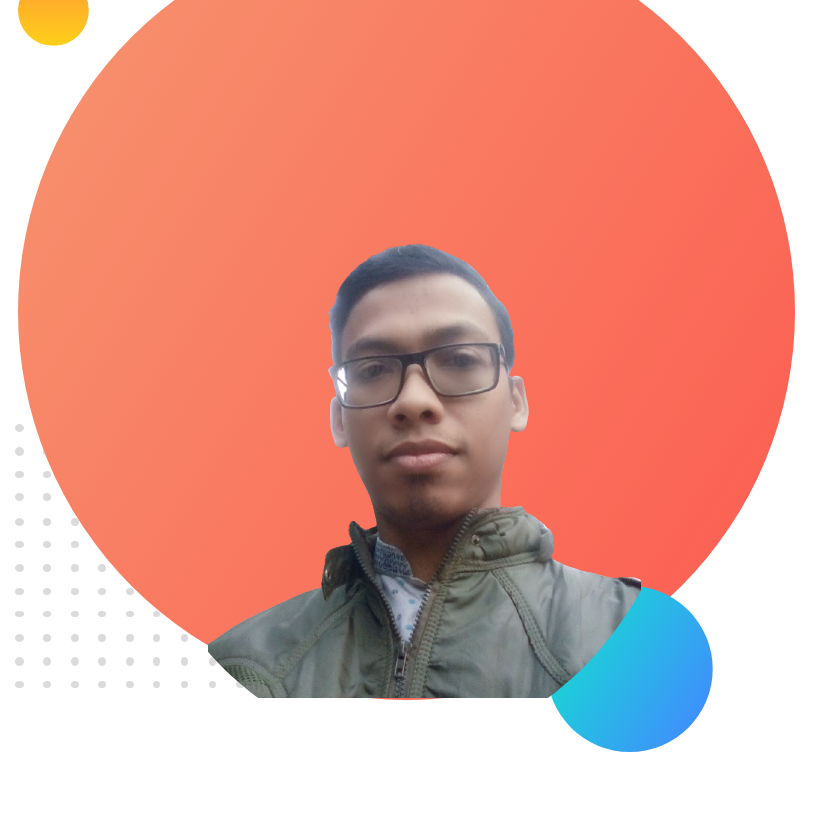
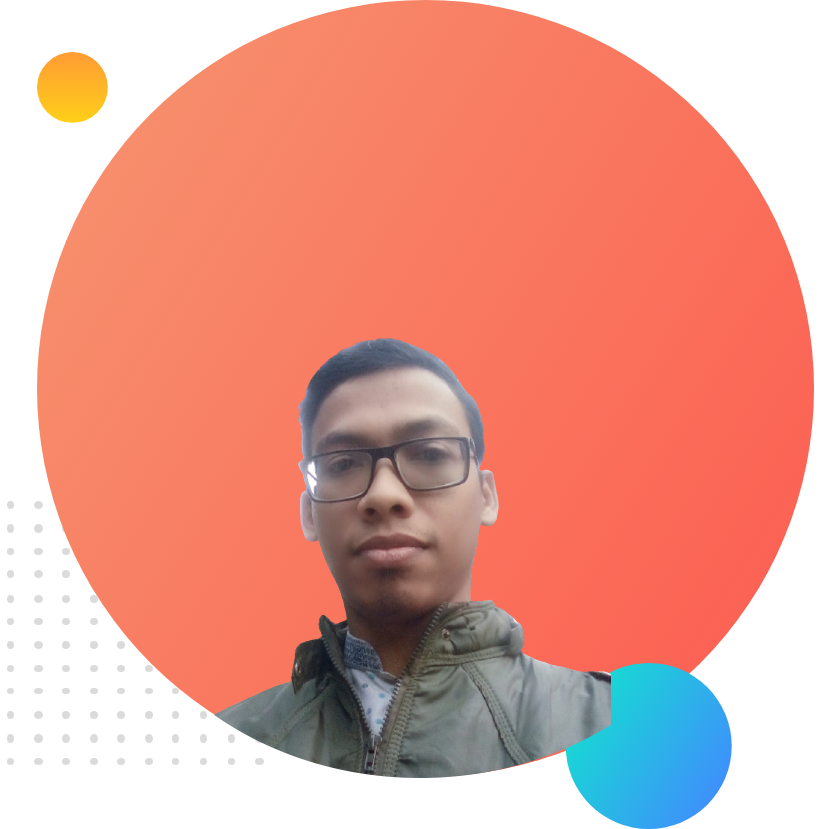
added

diff --git a/index.html b/index.html
@@ -8,55 +8,59 @@
     <link rel="stylesheet" href="style.css">
 </head>
 <body>
-    <section class="top">
+    <section class="top_bar">
         <div class="top_content">
+            <div class="description">
             <h1>
-                Welcome to 
-            </h1>
-            <h1>
-               <span> Asif</span> world
-            </h1>
-            <h2>
-                Teaching and playing
-             </h2>
+                Mission 2022<br><span>To become a webdevloper</span>
+            </h1>  
              <p>Lorem ipsum dolor sit amet consectetur adipisicing elit. Saepe distinctio obcaecati illo, consequatur odio enim expedita explicabo atque molestias sint harum vel, ad neque quos? Qui vitae dolorum natus. Quibusdam eveniet laboriosam magni dignissimos aperiam iusto consequuntur ab illum possimus?</p>
-             <a class="link-button" target="_blank" href="https://www.linkedin.com/in/mahmudul-islam-657426211">Hire Me</a>
+             <a class="link-button" target="_blank" href="https://www.linkedin.com/in/mahmudul-islam-657426211">Visit my linkdin page</a>
              </div>
-             <div class="top_content">
+             <div class="description">
                  <img src="images/profile.png">
              </div>
         </div>
     </section>
+    <section class="middle_bar">
+        <h1>My Mission is <span>2022</span></h1>
+        <div class="experience">
+        <div class="experiences"> 
+            <h1>Java Developer</h1>
+            <h2>2017| Offline Voting App</h2>
+            <p>Group project for a university course. In the application, it had two mode polling and voting. In polling mode, anyone was able to vote and in voting mode, only the registered users were able to vote. Visualizations like bar graph and pie graph were included. Created with java and MySQL</p>
+        </div>
+        <div class="experiences">  
+            <h1>Android Developer</h1>
+            <h2>2018| Smart Billing System</h2>
+            <p>Group project for a university course. In the application, user can pay their electricity, water and gas bill though internet and user can also view their bill information which is stored in database. Created with android studio and php local host sever.
+            </p>
+        </div>
+        <div class="experiences">  
+            <h1>Web Developer</h1>
+            <h2>2018| Restaurant Management System</h2>
+            <p>Group project for a university course. In the web application, admin can add products with their respective prices and user can book their tables by viewing different items .This application is implemented by using Laravel   </p>
+        </div>
+    </div>
+    </section>
     <section class="middle">
-            <div class="top_content">
-                <img src="images/profile.png">
-            </div>
-            <div class="top_content">
-            <h1>
-                Welcome to 
-            </h1>
-            <h1>
-               <span> Asif</span> world
-            </h1>
-            <h2>
-                Teaching and playing
-             </h2>
-             <p>Lorem ipsum dolor sit amet consectetur adipisicing elit. Saepe distinctio obcaecati illo, consequatur odio enim expedita explicabo atque molestias sint harum vel, ad neque quos? Qui vitae dolorum natus. Quibusdam eveniet laboriosam magni dignissimos aperiam iusto consequuntur ab illum possimus?</p>
+        <div class="top_content">
+            <img src="images/profile_2.png">
         </div>
-    </section>
-    <section class="bottom">
-        <h1>Project Experience</h1>
-        <div class="first_experience"> 
-            <h1>Android Developer</h1>
-            <h2>2018| Android Studio learner</h2>
-            <p>Lorem ipsum dolor sit amet, consectetur adipisicing elit. Blanditiis labore vero molestiae fuga ab, accusamus a quia amet similique in doloribus distinctio omnis velit deleniti laborum ipsa, excepturi hic. Facere quia illo eum ad accusamus vitae ullam praesentium accusantium corrupti.</p>
-        </div>
-        <div class="second_experience">  
-            <h1>Android Developer</h1>
-            <h2>2018| Android Studio learner</h2>
-            <p>Lorem ipsum dolor sit amet, consectetur adipisicing elit. Blanditiis labore vero molestiae fuga ab, accusamus a quia amet similique in doloribus distinctio omnis velit deleniti laborum ipsa, excepturi hic. Facere quia illo eum ad accusamus vitae ullam praesentium accusantium corrupti.</p>
-        </div>
-    </section>
+        <div class="top_content">
+        <h1>
+            Welcome to 
+        </h1>
+        <h1>
+           <span> Asif</span> world
+        </h1>
+        <h2>
+            Teaching and playing
+         </h2>
+         <p>Lorem ipsum dolor sit amet consectetur adipisicing elit. Saepe distinctio obcaecati illo, consequatur odio enim expedita explicabo atque molestias sint harum vel, ad neque quos? Qui vitae dolorum natus. Quibusdam eveniet laboriosam magni dignissimos aperiam iusto consequuntur ab illum possimus?</p>
+    </div>
+</section>
+
 
     
 </body>

diff --git a/style.css b/style.css
@@ -1,8 +1,53 @@
+*
+{
+    margin: 0;
+    padding: 0;
+}
+.top_bar
+{
+    margin: 20px;
+    border: 5px solid darkorange;
+    padding: 20px;
+    border-radius: 10px;
+    background-image: linear-gradient(white,silver);
+    background-image: url(images/top-banner.png);
+    background-repeat: no-repeat;
 
-.top
+}
+.top_content
 {
     display: flex;
+}
+.description
+{
+ width:50%;
+ margin-left: 20px;
+ font-family: Georgia, 'Times New Roman', Times, serif;
+}
+.description h1
+{
+  font-size: 40px;
+  border-left: 5px solid rgb(37, 9, 158);
+  padding-left: 10px;
 
+}
+
+.description p
+{
+    text-align: justify;
+}
+.description h1,h2,p{
+    margin-bottom: 30px;
+}
+.description img
+{
+    width: 50%;
+}
+.middle_bar h1
+{
+    text-align: center;
+    margin: 30px;
+    font-size: 30px;
 }
 .middle
 {
@@ -12,40 +57,56 @@ section a
 {
     text-decoration: none;
     background-image: linear-gradient(orange, tomato);
-    padding: 10px;
+    padding: 20px;
     color: #000;
     font-weight: 700;
     border-radius: 5px
 }
-h1  
+.top h1  
 {
-    font-size: 50px;
+    font-size: 60px;
+    padding-bottom: 10px;
+}
+.top h2 
+{
+    font-size: 30px;
+    padding-bottom: 10px;
 }
 
 span{
     color: orange; 
 }
-.top_content
-{
- width: 50%;
- padding-left: 10%;
-}
+
 .top_content img{
     width: 80%;
-    padding-top: 10%;
+    margin-top: 10px;
 }
-.top_content p
+.top p
 {
     text-align: justify;
-    padding: 10px;
+    margin-top: 10px;
+    margin-bottom: 30px;
 }
-.bottom
-{
+.experience{
     display: flex;
 }
-.first_experience
+.experiences
 {
  background-image: linear-gradient(rgba(231, 235, 231, 0.979), rgba(187, 173, 148, 0.329));
- border-radius: 10px;
- padding: 10px;
+ border-radius: 20px;
+ padding: 20px;
+ width: 30%;
+ margin-left: 20px;
+ box-shadow: 10px 10px 40px gray;
+ border-left: 5px solid black;
+}
+.experiences h1{
+    font-size: 40px;
+}
+.experiences h2{
+    font-size: 20px;
+    color: red;
+}
+.experiences p{
+   text-align: justify;
 }
